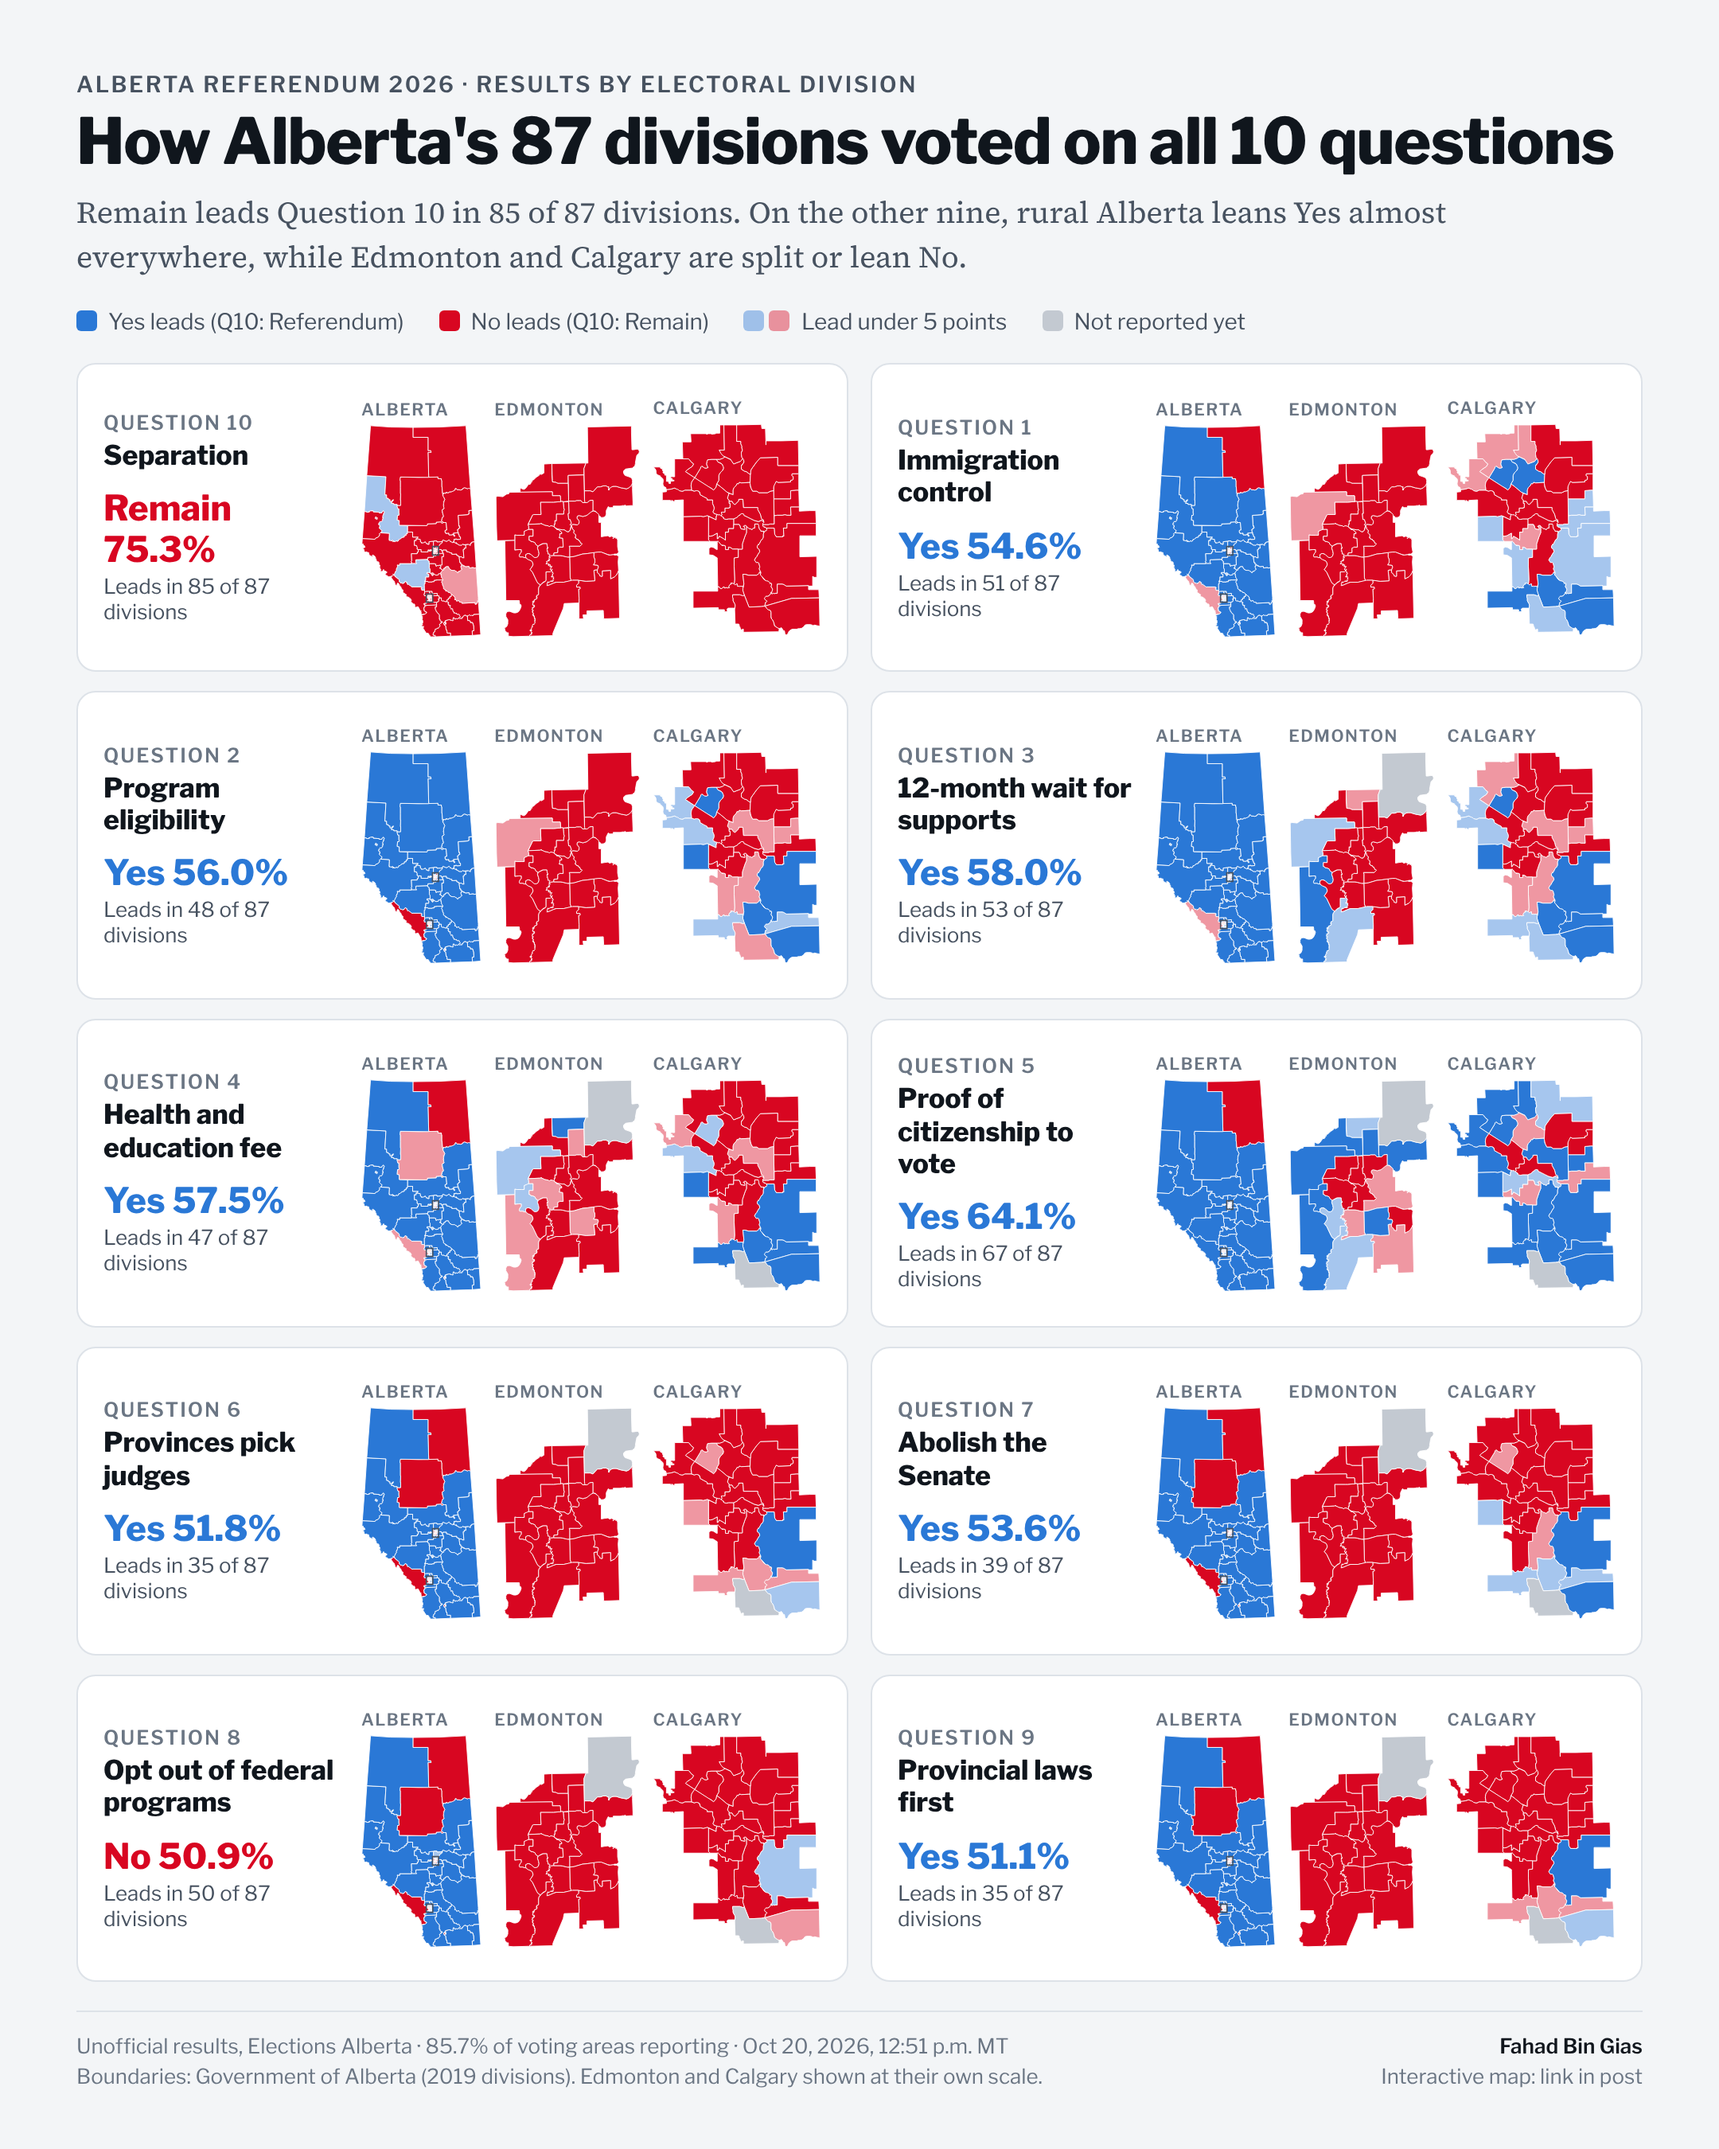
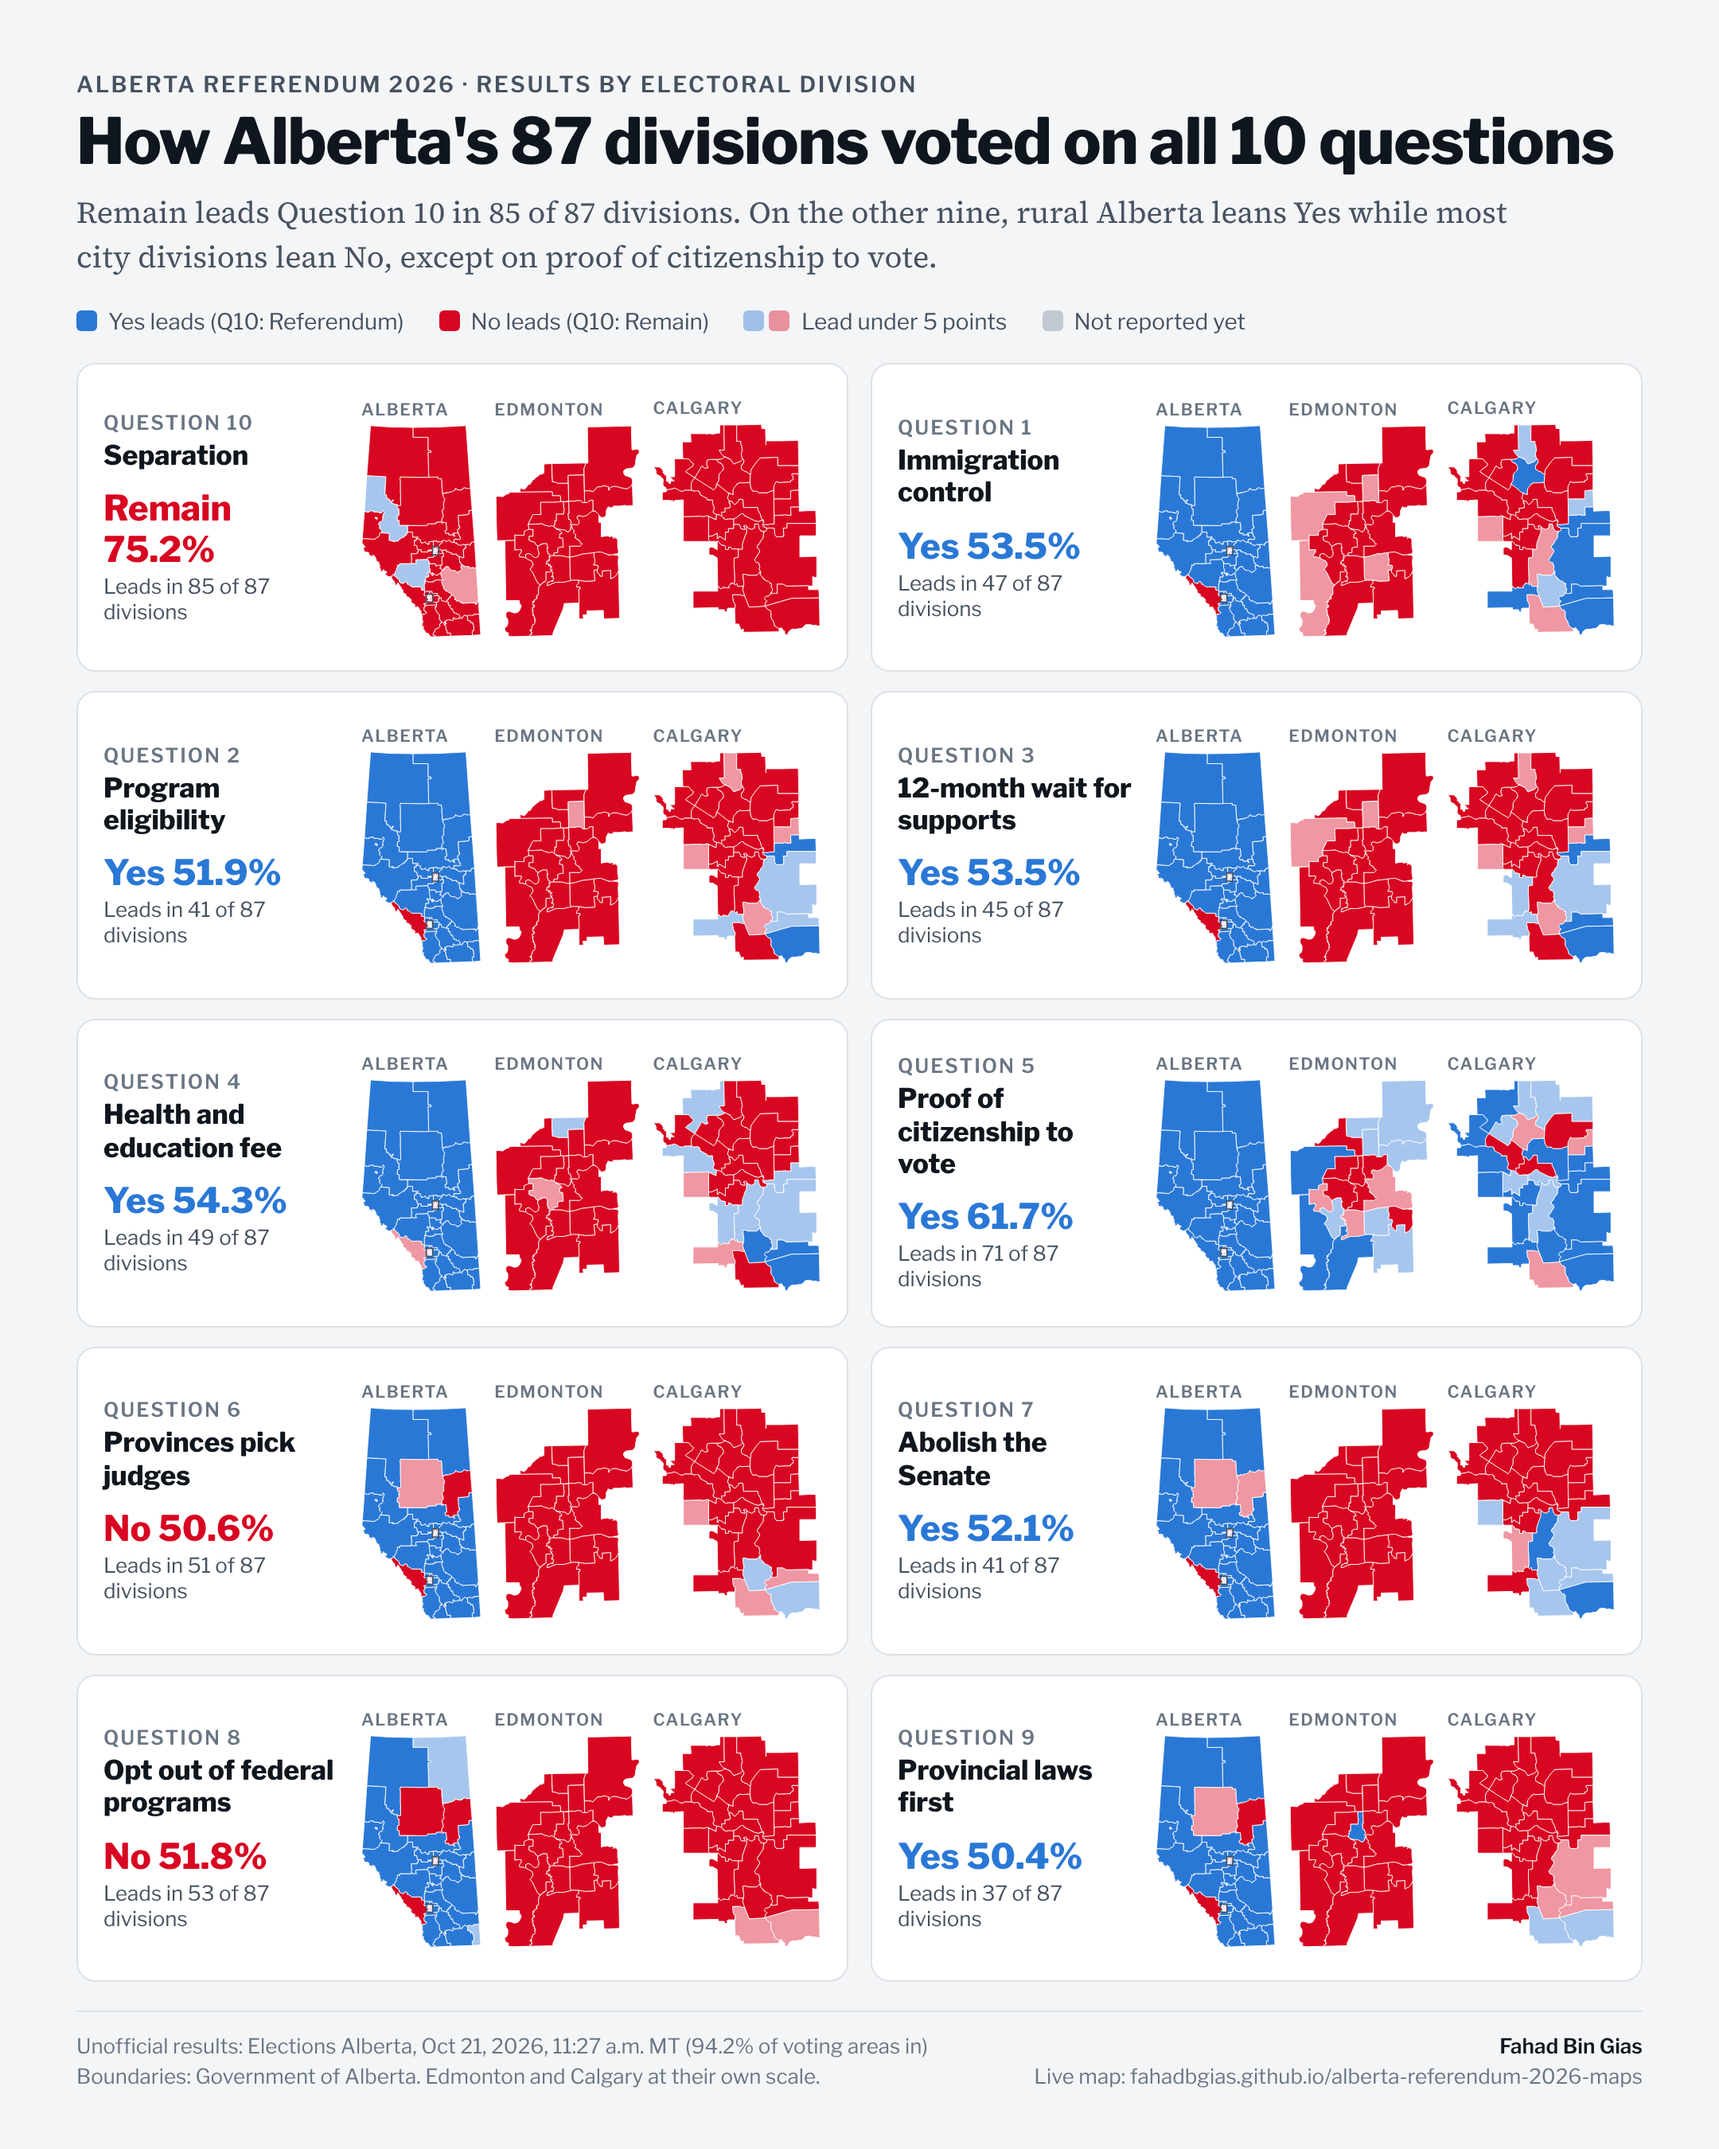
Tidy README, workflow comments and preview image

diff --git a/README.md b/README.md
@@ -27,7 +27,7 @@ flowchart LR
 
 Elections Alberta's results page loads its numbers from a JSON feed (`/data/8400?questions=N`). That feed can't be read directly from another website's page, so a scheduled GitHub Actions workflow reads it on GitHub's servers instead:
 
-1. `scripts/fetch_results.py` downloads the division-level results for each question. If the feed's data version changes (it did on referendum night), the script reads the current version and question IDs from the results page and tries again.
+1. `scripts/fetch_results.py` downloads the division-level results for each question. If the feed's data version changes (it did during the count), the script reads the current version and question IDs from the results page and tries again.
 2. It checks the data (below) and writes `data/results.json`, `data/results.csv` and a running `data/history.csv`.
 3. If the count moved, the workflow commits the new files and republishes the site. If nothing changed, it does nothing.
 
@@ -39,7 +39,7 @@ The boundaries come from the Government of Alberta's map service. `scripts/build
 
 - **Completeness:** every question must have all 87 divisions, or the run fails and the previous data stays up.
 - **Totals:** the divisions must add up to the feed's own province-wide totals. A mismatch is logged as a warning.
-- **Impossible counts:** in each division, a question's total votes should not be higher than the ballots counted there on Question 10, which was counted first. Divisions that break this rule are flagged on the map and in the CSV, and shown exactly as published. On referendum night this caught Calgary-Varsity on Question 1 (48,256 votes against 20,288 Question 10 ballots) and Grande Prairie-Wapiti on Questions 4 to 7.
+- **Impossible counts:** in each division, a question's total votes should not be higher than the ballots counted there on Question 10, which was counted first. Divisions that break this rule are flagged on the map and in the CSV, and shown exactly as published. During the count this caught Calgary-Varsity on Question 1 (48,256 votes against 20,288 Question 10 ballots) and Grande Prairie-Wapiti on Questions 4 to 7.
 
 ## Run it yourself
 
@@ -50,7 +50,6 @@ python -m http.server 8000               # then open http://localhost:8000
 ```
 
 Python 3.10+ with the standard library only. No packages to install.
-
 
 ## Sources
 
